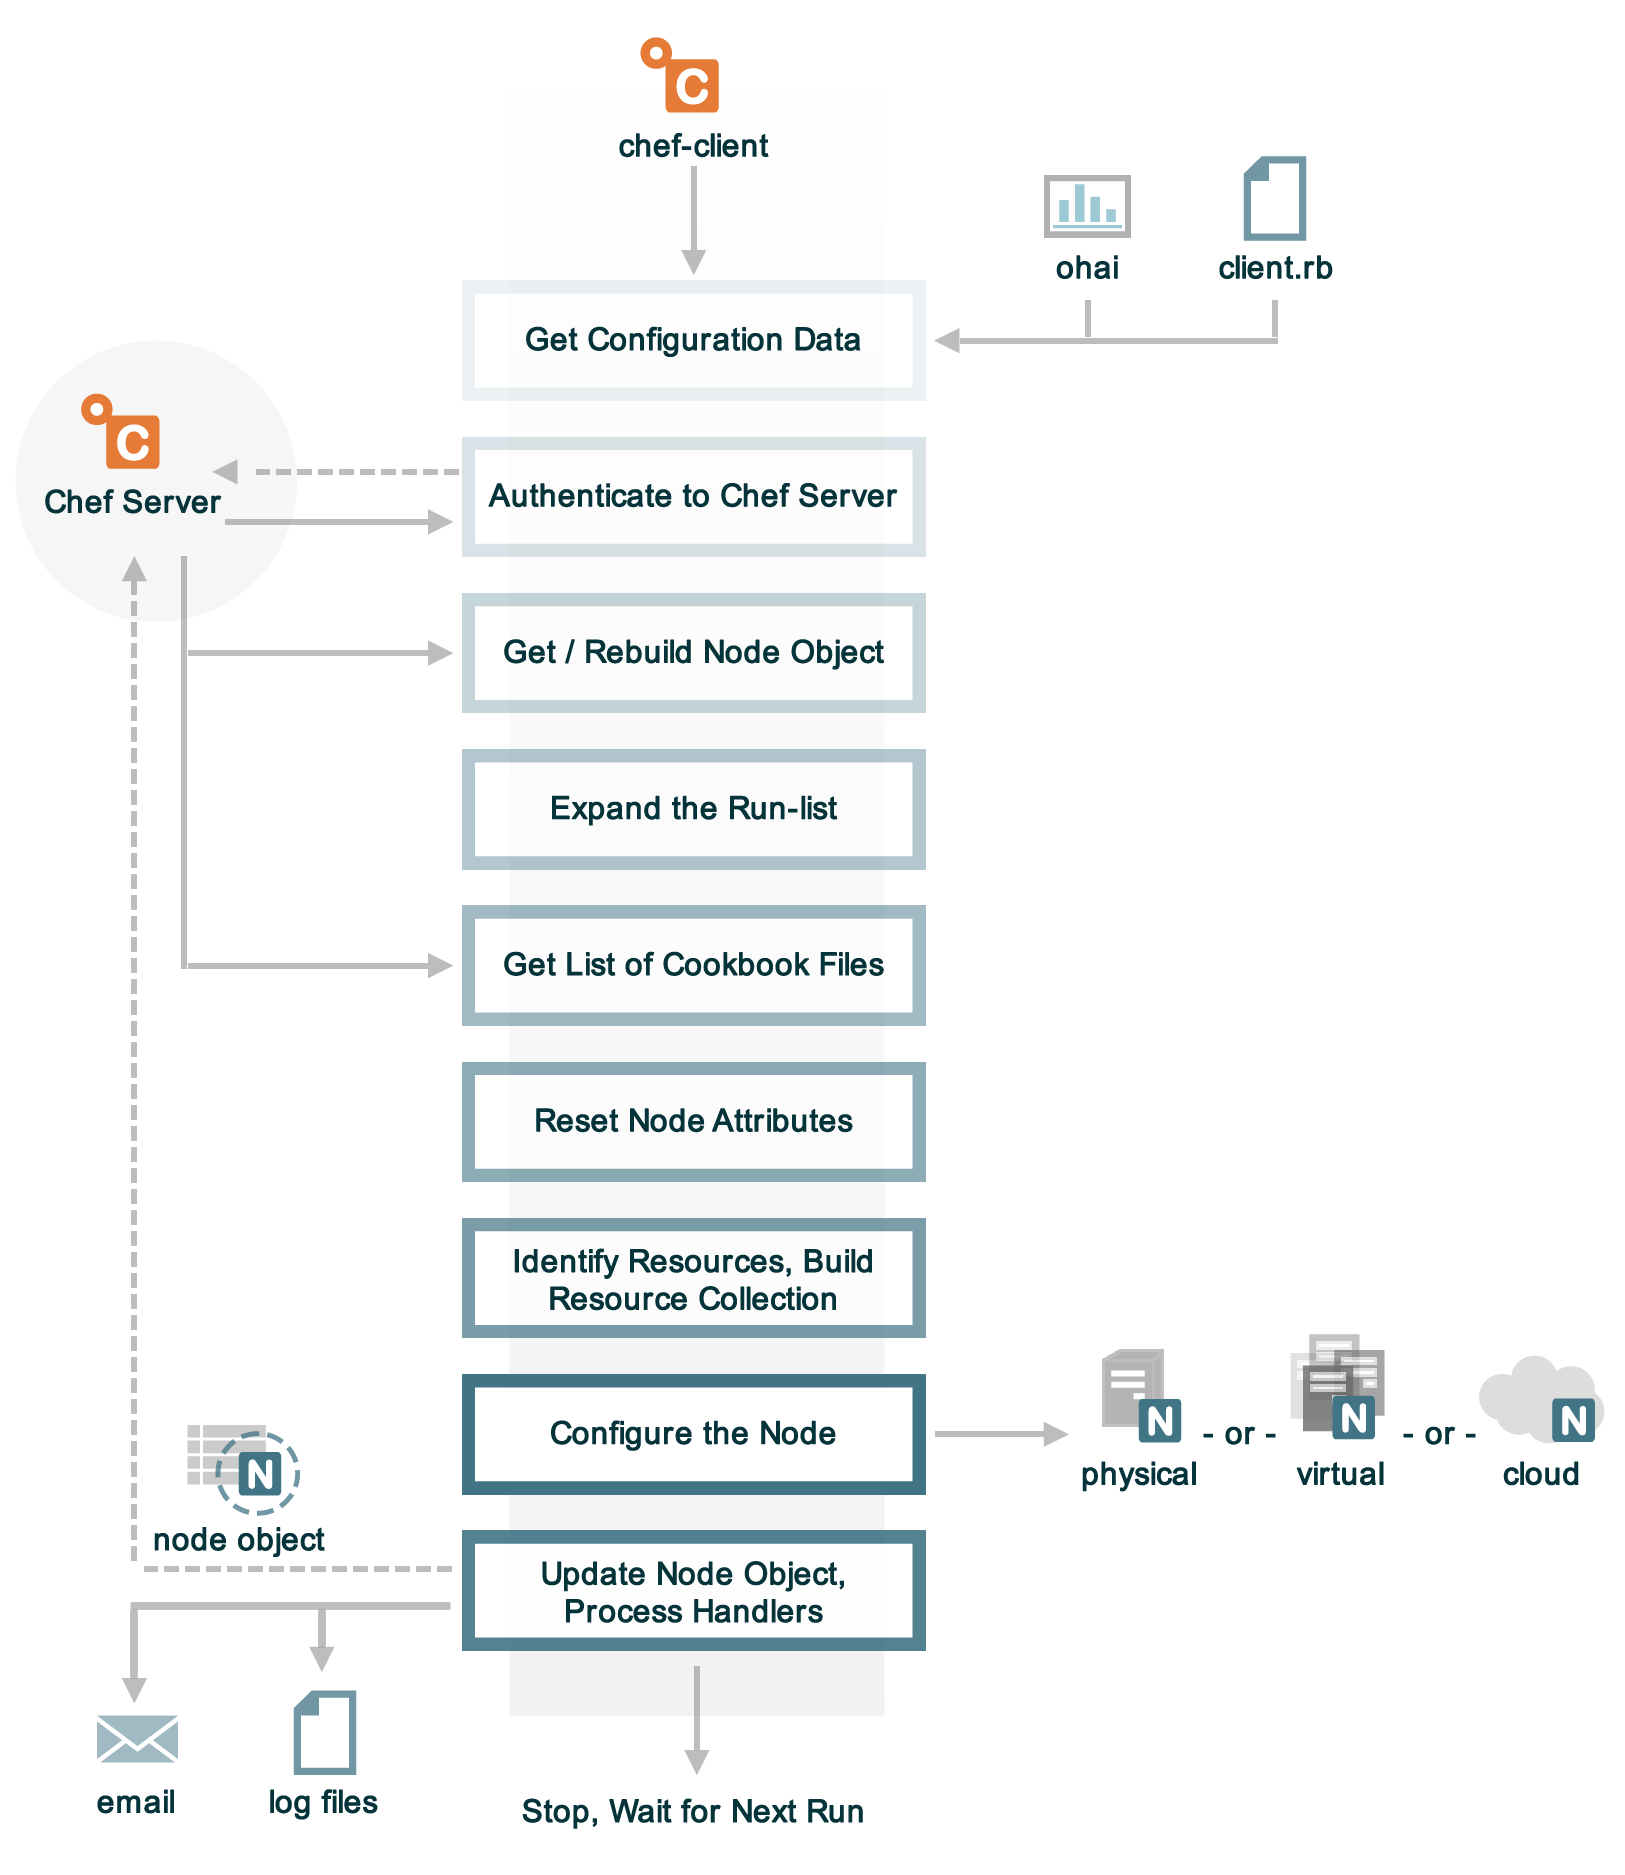
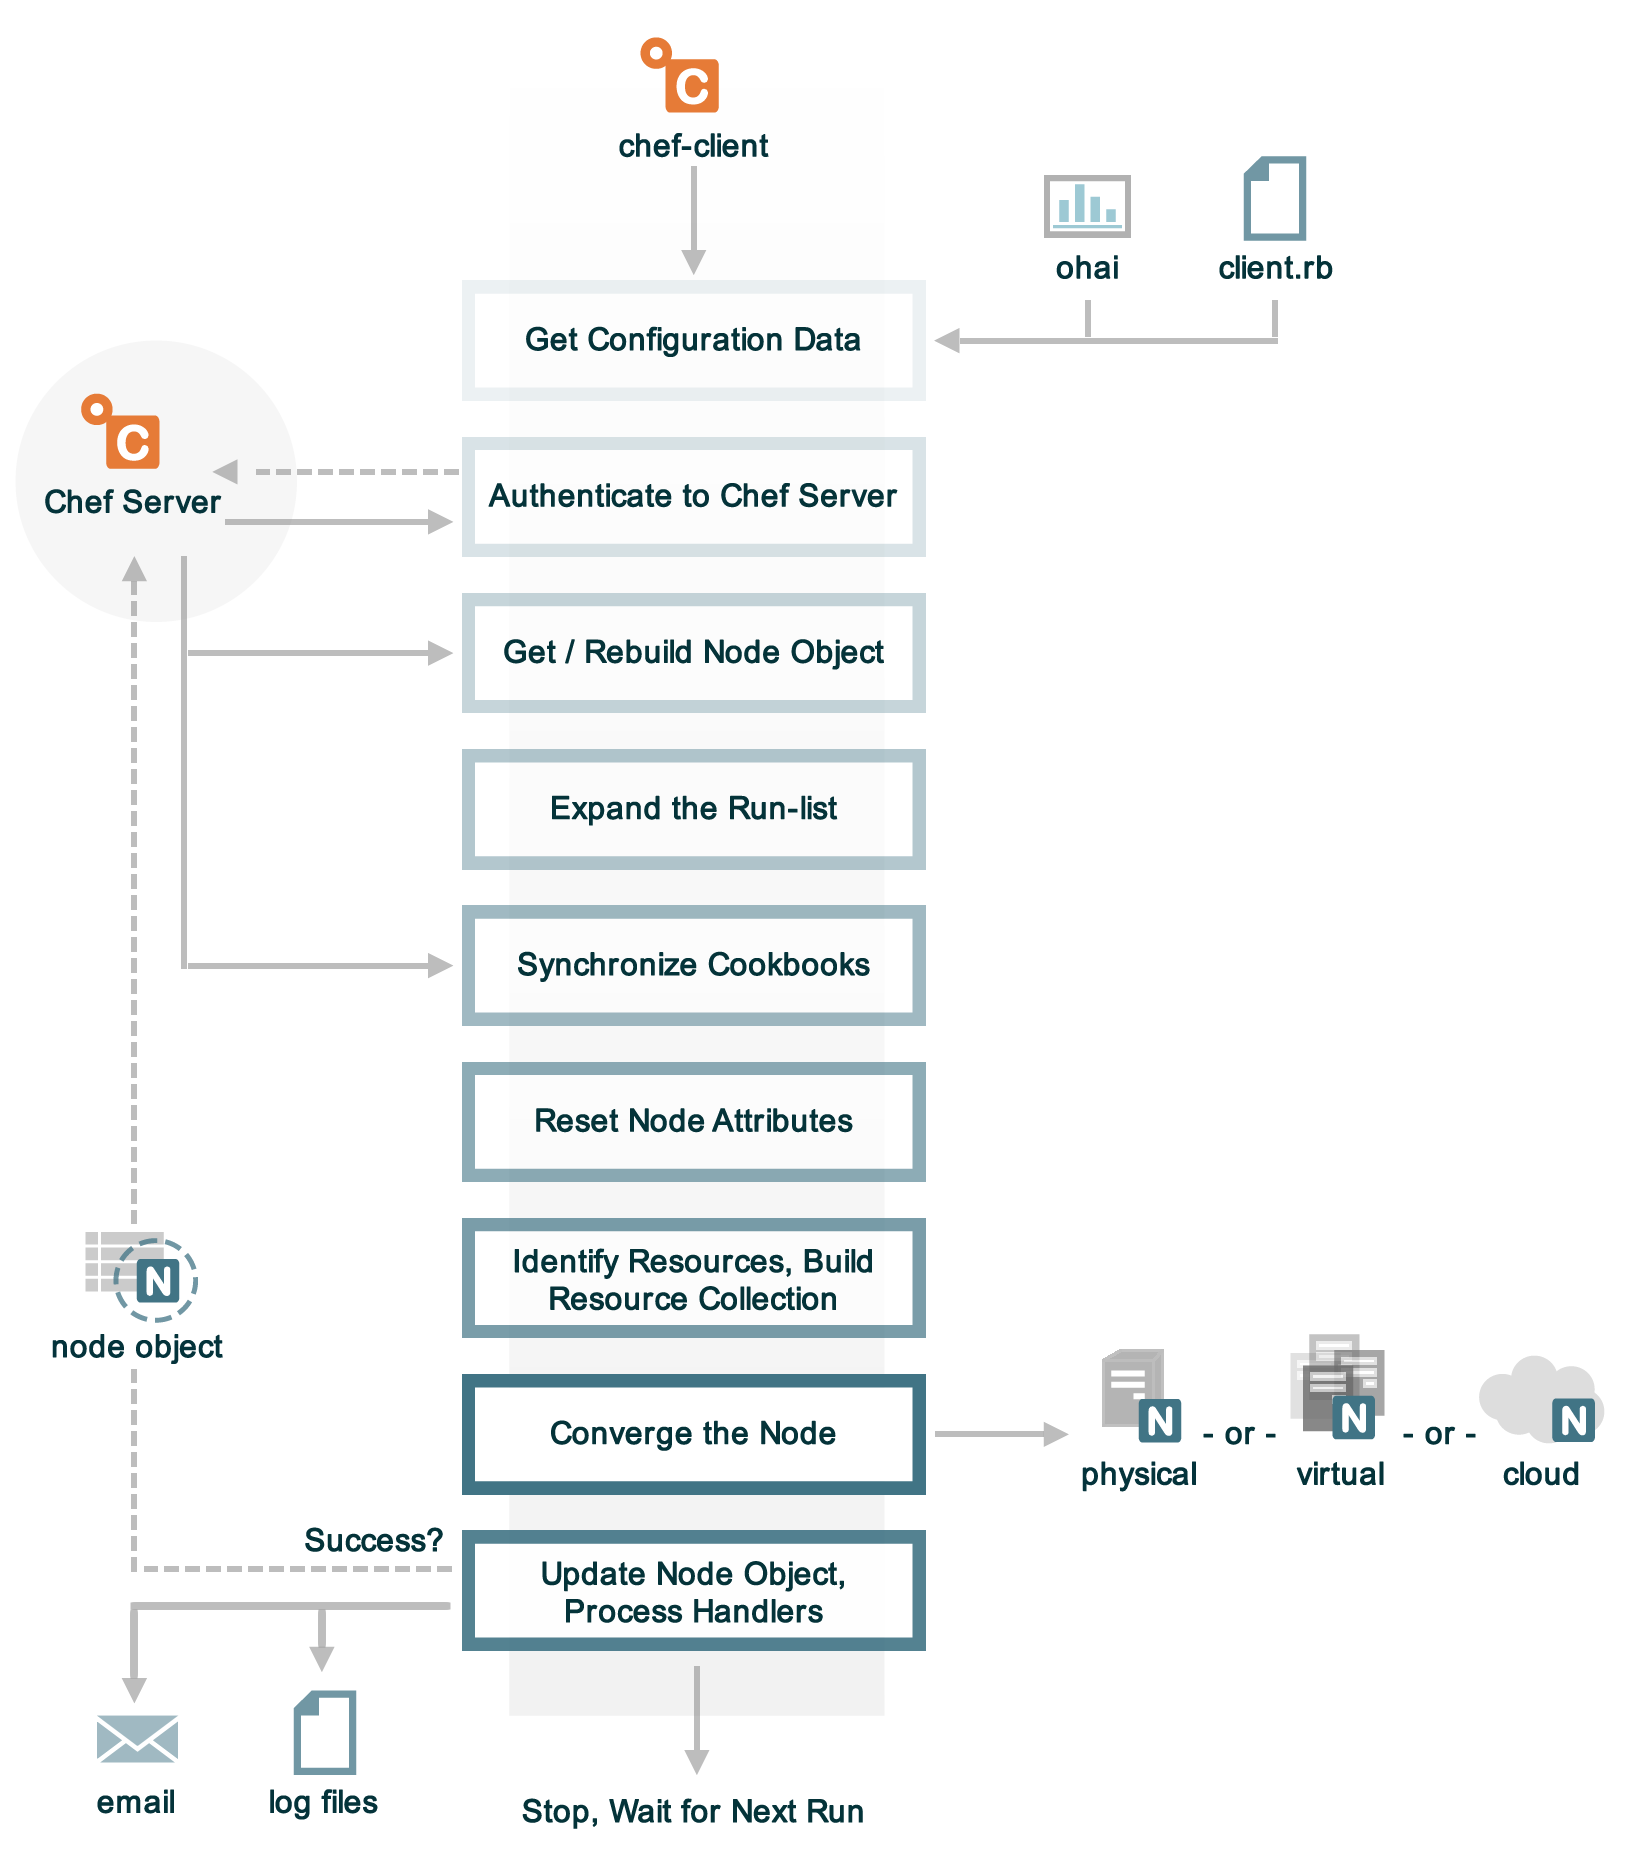
update chef-run diagrams; table descriptions

Changed region(s): [[0.0308, 0.6496, 0.2769, 0.8352], [0.3077, 0.4949, 0.5538, 0.5259], [0.3692, 0.7424, 0.4308, 0.7733]]

diff --git a/includes_chef_client/includes_chef_client_run.rst b/includes_chef_client/includes_chef_client_run.rst
@@ -21,14 +21,14 @@ During every |chef client| run, the following happens:
    * - **Get, rebuild the node object**
      - The |chef client| pulls down the node object from the |chef server|. If this is the first |chef client| run for the node, there will not be a node object to pull down from the |chef server|. After the node object is pulled down from the |chef server|, the |chef client| rebuilds the node object. If this is the first |chef client| run for the node, the rebuilt node object will contain only the default run-list. For any subsequent |chef client| run, the rebuilt node object will also contain the run-list from the previous |chef client| run.
    * - **Expand the run-list**
-     - The |chef client| expands the run-list from the rebuilt node object, compiling a full and complete list of roles and recipes that will be applied to the node, placing the roles and recipes in the same exact order they will be applied.
-   * - **Get a list of cookbook files**
+     - The |chef client| expands the run-list from the rebuilt node object, compiling a full and complete list of roles and recipes that will be applied to the node, placing the roles and recipes in the same exact order they will be applied. (The run-list is stored in each node object's |json| file, grouped under ``run_list``.)
+   * - **Synchronize cookbooks**
      - The |chef client| asks the |chef server| for a list of all cookbook files (including recipes, templates, resources, providers, attributes, libraries, and definitions) that will be required to do every action identified in the run-list for the rebuilt node object. The |chef server| provides to the |chef client| a list of all of those files. The |chef client| compares this list to the cookbook files cached on the node (from previous |chef client| runs), and then pulls down a copy of every file that has changed since the previous |chef client| run, along with any new files.
    * - **Reset node attributes**
      - All attributes in the rebuilt node object are reset. All attributes from recipes, roles, environments, |ohai| and attribute files are loaded. All attributes in the rebuilt node object are updated with the attribute data according to attribute precedence. When all of the attributes are updated, the rebuilt node object is complete.
    * - **Identify resources, build the resource collection**
      - The |chef client| identifies each resource in the node object and builds the resource collection. All details about the node are put into a single collection. All definitions are loaded (to ensure that any pseudo-resources are available). All libraries are loaded (to ensure that all language extensions and |ruby| classes are available). All recipes are loaded and each action specified specified in recipes are identified and any |ruby| blocks within recipes are evaluated.
-   * - **Configure the node**
+   * - **Converge the node**
      - The |chef client| configures the system based on the information that has been collected. Each resource is executed in the order identified by the run-list, and then by the order in which each resource is listed in each recipe. Each resource in the resource collection is mapped to a provider. The provider examines the node, and then does the steps necessary to complete the action. And then the next resource is processed. Each action configures a specific part of the system. This process is also referred to as convergence.
    * - **Update the node object, process exception and report handlers**
      - When all of the actions identified by resources in the resource collection have been done, and when the |chef client| run finished successfully, the |chef client| updates the node object on the |chef server| with the node object that was built during this |chef client| run. (This node object will be pulled down by the |chef client| during the next |chef client| run.) This makes the node object (and the data in the node object) available for search. 
